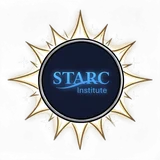
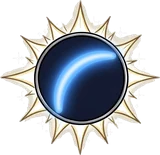
山海棋观：河图不减展翅、猛志冷却 7、深蓝星盘 4 次免冷却、神器改名换图标、头顶星弧标、天弧之光蓝光传送

diff --git a/games/shanhaiqiguan/data/skills.js b/games/shanhaiqiguan/data/skills.js
@@ -47,7 +47,7 @@
     xingtian: [
       S('duanshou', '断首再战', 'buff', 5, `被动：血越少攻击越高，最多 +${pct([0.5, 0.8, 1.2])}。主动：3 回合内，交战的对手因无首的恐惧，攻击和防御各降 ${pct([0.2, 0.3, 0.4])}`, { pv: { lowHp: [0.5, 0.8, 1.2] }, go: (g, k) => g.buff('fear', [0.2, 0.3, 0.4][k], 3) }, 'a headless torso with a roaring face on the chest'),
       S('ganqi', '干戚舞', 'buff', 5, `被动：反弹伤害，血越少反弹越多，最多 ${pct([0.35, 0.55, 0.75])}。主动：3 回合内攻击和闪避各 +${pct([0.05, 0.1, 0.15])}`, { pv: { thornLow: [0.35, 0.55, 0.75] }, go: (g, k) => { g.buff('atkPct', [0.05, 0.1, 0.15][k], 3); g.buff('dodge', [0.05, 0.1, 0.15][k], 3); } }, 'a crossed battle axe and round shield'),
-      S('mengzhi', '猛志', 'buff', 6, `被动：血越少暴击越高，最多 +${pct([0.15, 0.3, 0.45])}。主动：3 回合内吸收全部伤害，结束时一次受到吸收总量的 ${pct([1, 0.75, 0.5])}`, { pv: { critLow: [0.15, 0.3, 0.45] }, go: (g, k) => g.buff('absorb', [1, 0.75, 0.5][k], 3) }, 'a charging warrior silhouette with dust'),
+      S('mengzhi', '猛志', 'buff', 7, `被动：血越少暴击越高，最多 +${pct([0.15, 0.3, 0.45])}。主动：3 回合内吸收全部伤害，结束时一次受到吸收总量的 ${pct([1, 0.75, 0.5])}`, { pv: { critLow: [0.15, 0.3, 0.45] }, go: (g, k) => g.buff('absorb', [1, 0.75, 0.5][k], 3) }, 'a charging warrior silhouette with dust'),
       S('xingyao', '形夭', 'buff', 12, '血量高于 20% 才能用：血量降到 20%，多出的血存起来。12 回合内，每回合结束时血量低于 20% 就从存量补到 20%，到期存量清零', { ult: true, can: (p) => p.hp > p.maxhp * 0.2, go: (g) => g.pool(12) }, 'a headless giant rising with blazing spirit'),
     ],
     kuafu: [
@@ -83,7 +83,7 @@
     jingwei: [
       S('xianshi', '衔石', 'passive', 0, `战斗中每下 ${pct([0.1, 0.15, 0.2])} 对敌人造成其最大血 9% 的伤害`, { pr: [0.1, 0.15, 0.2] }, 'a small bird carrying a pebble'),
       S('tianhai', '填海', 'summon', 5, `在身后连放 3 块石头，${L([9, 7, 5])} 轮后自然消失。敌方英雄停在石头上（路过不算），石头碎掉，他掉 ${pct([0.03, 0.06, 0.09])} 最大血、交 ${pct([0.03, 0.06, 0.09])} 金币给你。石头自然消失时看脚下：无主领地归你；你的地建筑升一级；敌人的地建筑掉 25% 血；其他格子什么都不发生`, { go: (g, k) => g.behind('stones', 3, [9, 7, 5][k] - (g.lv(3) ? 1 : 0), [0.03, 0.06, 0.09][k]) }, 'a pile of round pebbles in waves'),
-      S('zhanchi', '展翅', 'buff', 7, '2 回合内飞在空中，停下时什么都不触发：不战斗、不交过路费，也不买地、不遇异兽', { go: (g) => g.buff('soar', 1, 2) }, 'small bird wings in flight over sea'),
+      S('zhanchi', '展翅', 'buff', 7, '2 回合内飞在空中，停下时什么都不触发：不战斗、不交过路费，也不买地、不遇异兽。河图减不了它的冷却', { noFast: true, go: (g) => g.buff('soar', 1, 2) }, 'small bird wings in flight over sea'),
       S('buqu', '志不可夺', 'passive', 0, '强化其他三个技能：衔石伤害变为最大血 17%；填海的石头少等 1 轮；展翅时自家和中立的格子照常结算', { ult: true }, 'a tiny bird defiantly facing a huge ocean wave'),
     ],
     zhulong: [
@@ -115,7 +115,7 @@
     T(3, 'yuchan', '玉蝉', '技能触发 +10%，经验 +50%', { proc: 0.1, xpMul: 0.5 }, 'a jade cicada carving'),
     T(4, 'xuanyuanjian', '轩辕剑', '攻击 +15，暴击 +10%', { atk: 15, crit: 0.1 }, 'a legendary golden sword with sun and moon on the blade'),
     T(4, 'xirang', '息壤', '自家过路费 +50%，建筑每回合多回血', { tollUp: 0.5, repair: 0.1 }, 'a glowing lump of self-growing magic soil'),
-    T(4, 'hetu', '河图', '技能触发 +15%，冷却每回合多减 1（大招除外）', { proc: 0.15, cdFast: 1 }, 'an ancient diagram scroll of dots carried on a dragon horse'),
+    T(4, 'hetu', '河图', '技能触发 +15%，冷却每回合多减 1（大招和精卫的展翅除外）', { proc: 0.15, cdFast: 1 }, 'an ancient diagram scroll of dots carried on a dragon horse'),
     T(4, 'luoshu', '洛书', '建造升级便宜 40%', { buildCut: 0.4 }, 'a turtle shell with a magic square of dots'),
     T(4, 'dengzhang', '夸父杖', '步数 +3，每回合回 6 血', { steps: 3, regen: 6 }, 'a giant wooden staff with leaves sprouting'),
     T(4, 'shenshu', '神荼索', '吸血 25%', { lifesteal: 0.25 }, 'a glowing reed rope binding a ghost'),
@@ -141,9 +141,9 @@
   const AR = (id, name, desc, n, ic) => ({ id, name, desc, n, ic, tier: 5 });
   SJ.ARTIFACTS = [
     AR('xinghuzhui', '星弧吊坠', '12 回合内，路过的自家建筑自动升一级（最高 3 级），然后消失', 12, 'a round silver medallion pendant with the STARC Institute logo on a navy enamel face, on a fine chain'),
-    AR('busishu', '星弧甘露', '阵亡时以满血和 1000 金复活，用后消失', null, 'a glowing crystal water droplet with the STARC Institute logo on a navy center'),
-    AR('xinghuguang', '星弧之光', '8 回合内：掷骰后直接传送到 3 倍步数远的地方，路上什么都不触发、不受地形和路障影响；每回合多走一次；闪避 +80%', 8, 'a radiant starburst of light around the STARC Institute logo on a navy center'),
-    AR('xinghupan', '星弧星盘', '5 回合内所有技能（包括大招）没有冷却，每回合都能放，然后消失', 5, 'a bronze astrolabe plate engraved with constellations around the STARC Institute logo on a navy center'),
+    AR('busishu', '星星甘露', '阵亡时以满血和 1000 金复活，用后消失', null, 'a glowing crystal water droplet with a glowing blue star on a navy center'),
+    AR('xinghuguang', '天弧之光', '8 回合内：掷骰后直接传送到 3 倍步数远的地方，路上什么都不触发、不受地形和路障影响；每回合多走一次；闪避 +80%', 8, 'a radiant starburst of light around a glowing blue arc on a navy center'),
+    AR('xinghupan', '深蓝星盘', '接下来 4 次放技能不受冷却限制（包括大招），用完消失；技能本来就好了的不算次数', null, 'a bronze astrolabe plate engraved with constellations around the STARC Institute logo on a navy center'),
   ];
   // 给玩家看的技能说明：有点故事味。上面的 desc 是精确规则，留给设计文档和批注表
   SJ.SAY = {

diff --git a/games/shanhaiqiguan/view/app.js b/games/shanhaiqiguan/view/app.js
@@ -248,7 +248,7 @@
     st.insertAdjacentHTML('beforeend', B.tilesSvg());
     SJ.BOARD.forEach((_, i) => renderTile(i));
     S.players.forEach((p) => {
-      const e = h(`<div class="piece" style="--pc:${PCOLOR[p.id]}"><div class="aura"><b class="wl"></b><b class="wr"></b><i></i><i></i><i></i><i></i><i></i></div><div class="px" style="background-image:url(assets/px_${p.hero}.png)"></div></div>`);
+      const e = h(`<div class="piece" style="--pc:${PCOLOR[p.id]}"><div class="aura"><b class="wl"></b><b class="wr"></b><i></i><i></i><i></i><i></i><i></i></div><div class="px" style="background-image:url(assets/px_${p.hero}.png)"></div>${ARTMARK}</div>`);
       pieces[p.id] = e; st.append(e);
     });
     placePieces();
@@ -305,7 +305,10 @@
   // 精卫展翅的造型：放技能时状态还没加上，所以掷骰、走路时也要再刷一次
   // 加持期间人物换造型：翼覆千里金龙之气，兵主降世血焰，形夭战魂，与日逐走背日
   const has = (p, k) => p.buffs.some((b) => b.k === k);
+  // 拿着神器时头顶的星弧小标：一颗星、一道弧
+  const ARTMARK = '<div class="artmark"><svg viewBox="0 0 44 32"><defs><linearGradient id="amArc" x1="0" x2="1"><stop offset="0" stop-color="#3d8bff" stop-opacity="0"/><stop offset=".55" stop-color="#7cc4ff"/><stop offset="1" stop-color="#e6f4ff"/></linearGradient></defs><path d="M3 27 Q 20 15 41 19" fill="none" stroke="url(#amArc)" stroke-width="4.2" stroke-linecap="round"/><path d="M22 2 L24.6 8.6 L31.5 9.1 L26.2 13.6 L27.9 20.4 L22 16.7 L16.1 20.4 L17.8 13.6 L12.5 9.1 L19.4 8.6 Z" fill="#8cc8ff" stroke="#e6f4ff" stroke-width="1" stroke-linejoin="round"/></svg></div>';
   const FORMS = {
+    hasart: (p) => !!p.art,
     soar: (p) => has(p, 'soar'),
     yifu: (p) => has(p, 'fly'),
     berserk: (p) => has(p, 'avatar'),
@@ -415,7 +418,7 @@
         ${Object.keys(p.status).length ? `<p>状态：${Object.entries(p.status).map(([k, n]) => `${SJ.STATUS[k]?.[0] || k} ${n}`).join('、')}</p>` : ''}</div></div>
       <h4>技能</h4><div class="sks">${list.map(skill).join('')}</div>
       <h4>消耗品 <small>最多 4 个，满了挤掉最早的（应战帖不算）${act ? '，点一下马上用掉' : ''}</small></h4><div class="slots">${[...Array(Math.max(4, (p.cons || []).length)).keys()].map((i) => { const id = (p.cons || [])[i], c = id && SJ.consOf(id); return c ? `<button class="slot t1" ${act ? `data-a='{"a":"use","i":${i}}'` : ''}>${img('it_' + id)}<b>${c.name}</b><small>${c.desc}</small></button>` : '<div class="slot empty">空</div>'; }).join('')}</div>
-      ${p.art ? (() => { const a = SJ.artOf(p.art.id); return `<h4>神器</h4><div class="slots"><div class="slot t5">${img('it_' + a.id)}<b>${a.name}</b><small>${a.desc}${p.art.n != null ? `（还剩 ${p.art.n} 轮）` : ''}</small></div></div>`; })() : ''}
+      ${p.art ? (() => { const a = SJ.artOf(p.art.id); return `<h4>神器</h4><div class="slots"><div class="slot t5">${img('it_' + a.id)}<b>${a.name}</b><small>${a.desc}${p.art.n != null ? `（还剩 ${p.art.n} 轮）` : p.art.uses ? `（还剩 ${p.art.uses} 次）` : ''}</small></div></div>`; })() : ''}
       <h4>宝物 <small>最多装备 4 件${act ? '，点一下卸下' : ''}</small></h4><div class="slots">${p.items.map((id, i) => item(id, `{"a":"unequip","i":${i}}`)).join('')}</div>
       ${p.bag.length ? `<h4>包袱 <small>${act ? '点一下装备' : ''}</small></h4><div class="slots">${p.bag.map((id, i) => item(id, p.items.includes(null) ? `{"a":"equip","i":${i}}` : `{"a":"sell","i":${i}}`)).join('')}</div>${act && !p.items.includes(null) ? '<p class="note">宝物栏满了：先卸下一件，或者点包袱里的宝物卖掉。</p>' : ''}` : ''}
       <div class="btn-row"><button class="btn primary" id="hp-close">${act ? '返回' : '关闭'}</button></div></div></div>`);
@@ -561,7 +564,13 @@
         if (D) { const { x, y } = iso(end); trail(x, y + 6, 'land'); if (D.fly) sfx.land(); }
         p.pos = end; placePieces(); break;
       }
-      case 'jump': { sfx.portal(); const pc = pieces[e.pid]; pc.style.setProperty('--step', '0ms'); placePieces(); const q = iso(e.pos); B.look(q.x, q.y - 40, 300); await wait(620); break; }
+      case 'jump': if (e.light && pieces[e.pid]) { // 天弧之光：化成蓝光，一道光飞过去，再从光里现身
+        const pc = pieces[e.pid], x0 = parseFloat(pc.style.left), y0 = parseFloat(pc.style.top), q = iso(e.pos), ms = 560 / speed;
+        sfx.portal(); fxAt(x0, y0, 'arc-beam', 1000); pc.classList.add('arc-out'); await wait(380);
+        const orb = fxAt(x0, y0 - 40, 'arc-orb', ms + 400, 9e5); pc.style.setProperty('--step', '0ms'); placePieces();
+        B.look(q.x, q.y - 40, ms); await wait(30); if (orb) { orb.style.transition = `left ${ms}ms ease-in-out, top ${ms}ms ease-in-out`; orb.style.left = `${q.x}px`; orb.style.top = `${q.y - 34}px`; }
+        await wait(560); orb?.remove(); fxAt(q.x, q.y + 6, 'arc-beam', 1000); pc.classList.add('arc-in'); pc.classList.remove('arc-out'); await wait(620); pc.classList.remove('arc-in'); break;
+      } else { sfx.portal(); const pc = pieces[e.pid]; pc.style.setProperty('--step', '0ms'); placePieces(); const q = iso(e.pos); B.look(q.x, q.y - 40, 300); await wait(620); break; }
       case 'msg': logLine(e.text); toast(e.text, e.kind); if (/拦下/.test(e.text)) sfx.block(); renderPlayers(); placePieces(); if (e.kind === 'skill') sfx.skill(); await wait(800); break;
       case 'tile': if (e.look) await lookTile(e.tile, e.look); renderTile(e.tile, e.built || e.buy); renderPlayers(); if (e.built || e.buy) sfx.build(); if (e.fire) sfx.fire(); if (e.built) logLine(`${S.players[e.pid].name} 建造了 ${SJ.BUILDINGS[S.tiles[e.tile].b].name}`); await wait(e.fire ? 450 : 240); break;
       case 'toll': { renderPlayers(); const q = S.players[e.to], p = S.players[e.pid]; logLine(`${p.name} 付给 ${q.name} ${e.n} 金`); floaty(e.pid, `-${e.n}`, '#ffd76a'); sfx.pay(); await wait(560); break; }

diff --git a/games/shanhaiqiguan/core/game.js b/games/shanhaiqiguan/core/game.js
@@ -210,7 +210,7 @@
     if (i === 3) return p.sk[3] === 0 && p.level >= 6;
     return p.sk[i] < 3 && p.level >= p.sk[i] * 2 + 1;
   };
-  SJ.canCast = (p, i, s) => { const k = SJ.SKILLS[p.hero][i]; return !!k.go && p.sk[i] > 0 && p.cd[i] <= 0 && (!k.can || k.can(p, s || SJ._s)); };
+  SJ.canCast = (p, i, s) => { const k = SJ.SKILLS[p.hero][i]; return !!k.go && p.sk[i] > 0 && (p.cd[i] <= 0 || (p.art && p.art.id === 'xinghupan' && p.art.uses > 0)) && (!k.can || k.can(p, s || SJ._s)); };
   // 土府：站在自家建筑上，而且这座还不是土府
   SJ.canTufu = (s, p) => { const t = s.tiles[p.pos]; return t.owner === p.id && !!t.b && SJ.BUILDINGS[t.b].branch !== 'tufu'; };
 
@@ -239,6 +239,9 @@
   async function cast(s, io, p, i) {
     if (!SJ.canCast(p, i, s)) return;
     const k = SJ.SKILLS[p.hero][i], lv = p.sk[i] - 1;
+    if (p.cd[i] > 0) { // 深蓝星盘：冷却中的技能照放，用掉一次
+      if (--p.art.uses <= 0) { const a = SJ.artOf(p.art.id); p.art = null; await io.ev({ t: 'msg', text: `${a.name}的光芒散去了` }); } else await io.ev({ t: 'msg', kind: 'skill', text: `${SJ.artOf('xinghupan').name}还能再免 ${p.art.uses} 次冷却` });
+    }
     p.cd[i] = Array.isArray(k.cd) ? k.cd[lv] : k.cd;
     await io.ev({ t: 'cast', pid: p.id, sk: k.id, name: k.name });
     const g = {
@@ -393,9 +396,9 @@
 
   async function eliminate(s, io, p, killer, why) {
     if (!p.alive) return;
-    if (p.art && p.art.id === 'busishu') { // 星弧甘露：满血加 1000 金复活
+    if (p.art && p.art.id === 'busishu') { // 星星甘露：满血加 1000 金复活
       p.art = null; p.hp = p.maxhp; gain(s, p, 1000);
-      await io.ev({ t: 'msg', kind: 'skill', text: `${p.name} 饮下星弧甘露，满血复活，还得到 1000 金` });
+      await io.ev({ t: 'msg', kind: 'skill', text: `${p.name} 饮下星星甘露，满血复活，还得到 1000 金` });
       return;
     }
     if (hasBuff(p, 'revive')) {
@@ -788,7 +791,7 @@
   async function giveArtifact(s, io, p) {
     const a = SJ.ARTIFACTS[ri(s, SJ.ARTIFACTS.length)];
     p.art = { id: a.id, n: a.n }; p.hadArt = true;
-    if (a.id === 'xinghupan') p.cd = p.cd.map(() => 0); // 拿到当回合就清
+    if (a.id === 'xinghupan') p.art.uses = 4; // 深蓝星盘：4 次免冷却
     await io.ev({ t: 'artifact', pid: p.id, id: a.id });
   }
   const artChance = (s, p) => SJ.bigMap() && !p.hadArt && s.round >= (SJ.MAP.tierAt || [30, 60])[1];
@@ -1287,14 +1290,14 @@
     return d1 === d2;
   }
 
-  // 星弧之光：顺着路数出 n 格，直接传过去，路上什么都不触发，地形不算步数
+  // 天弧之光：顺着路数出 n 格，直接传过去，路上什么都不触发，地形不算步数
   async function lightJump(s, io, p, n, back) {
     if (back) turnAround(s, p);
     let pos = p.pos, from = p.from;
     for (let k = 0; k < n; k++) { let o = SJ.BOARD[pos].adj.filter((x) => x !== from); if (!o.length) o = [from]; const nx = o[ri(s, o.length)]; from = pos; pos = nx; }
     p.pos = pos; p.from = from;
     await io.ev({ t: 'jump', pid: p.id, pos, light: true });
-    await io.ev({ t: 'msg', kind: 'skill', text: `${p.name} 化作星弧之光，一闪到了 ${n} 格外` });
+    await io.ev({ t: 'msg', kind: 'skill', text: `${p.name} 化作天弧之光，一闪到了 ${n} 格外` });
   }
 
   SJ.takeTurn = async function (s, io) {
@@ -1306,7 +1309,7 @@
     s.stats.turns++;
     if (p.alive) {
       await io.ev({ t: 'turn', pid: p.id });
-      p.cd = hasArt(p, 'xinghupan') ? p.cd.map(() => 0) : p.cd.map((c, j) => Math.max(0, c - 1 - (SJ.SKILLS[p.hero][j].ult ? 0 : treasure(p, 'cdFast')))); // 星弧星盘：每回合冷却全清；河图对大招无效
+      p.cd = p.cd.map((c, j) => { const k = SJ.SKILLS[p.hero][j]; return Math.max(0, c - 1 - (k.ult || k.noFast ? 0 : treasure(p, 'cdFast'))); }); // 河图对大招和展翅无效
       { const rg = stat(p, 'regen'); if (rg) { const v = heal(p, rg); if (v) await io.ev({ t: 'heal', pid: p.id, n: v }); } }
       // 收入
       let inc = 0, taken = 0, taken2 = null;
@@ -1361,7 +1364,7 @@
           await io.ev({ t: 'msg', text: `${p.name} 这回合动不了` });
         } else {
           let again = true, doubles = 0;
-          s.extra = hasArt(p, 'xinghuguang') ? 1 : 0; // 星弧之光：每回合多走一次
+          s.extra = hasArt(p, 'xinghuguang') ? 1 : 0; // 天弧之光：每回合多走一次
           while (again && p.alive && !s.over) {
             const dbl = await rollAndGo(s, io, p);
             if (!p.alive || s.over) break;

diff --git a/games/shanhaiqiguan/style.css b/games/shanhaiqiguan/style.css
@@ -482,3 +482,20 @@ canvas.fx { position: absolute; inset: 0; width: 100%; height: 100%; pointer-eve
 .beast.phantom.absorb { transition: left var(--step) cubic-bezier(.5, 0, .9, .6), top var(--step) cubic-bezier(.5, 0, .9, .6), scale var(--step) ease-in, opacity var(--step) ease-in; scale: .35; opacity: .9; filter: hue-rotate(160deg) saturate(2) brightness(1.6) drop-shadow(0 0 14px #bfefff); }
 .piece.drink .px { filter: drop-shadow(0 0 10px #bfefff) brightness(1.35); }
 @keyframes phantom-bob { from { translate: 0 0; } to { translate: 0 -8px; } }
+/* 神器：头顶的星弧小标 */
+.piece .artmark { position: absolute; left: 50%; top: -6px; width: 40px; height: 29px; margin-left: -20px; z-index: 3; display: none; filter: drop-shadow(0 0 2px #3d8bff) drop-shadow(0 0 6px #3d8bffaa); animation: artbob 1.6s ease-in-out infinite alternate; }
+.piece .artmark svg { display: block; width: 100%; height: 100%; }
+.piece.hasart .artmark { display: block; }
+.piece.yifu .artmark, .piece.dash-zhenyi .artmark { translate: 0 -34px; }
+.piece.soar .artmark { translate: 0 -64px; }
+@keyframes artbob { from { transform: translateY(0); } to { transform: translateY(-4px); } }
+/* 天弧之光：原地化成蓝光柱，一团光飞过去，再从光柱里现身 */
+.piece.arc-out { transition: opacity .34s ease-in, filter .34s ease-in; opacity: 0; filter: brightness(2.6) drop-shadow(0 0 10px #5aa8ff); }
+.piece.arc-in { transition: opacity .45s ease-out, filter .7s ease-out; }
+.arc-beam { position: absolute; width: 0; height: 0; pointer-events: none; }
+.arc-beam::before { content: ""; position: absolute; left: -24px; bottom: 0; width: 48px; height: 190px; border-radius: 24px 24px 50% 50%; background: linear-gradient(to top, #f2f9ff, #8fd0ffee 22%, #3d8bffaa 60%, #3d8bff00); transform-origin: 50% 100%; animation: arc-beam 1s ease-out forwards; box-shadow: 0 0 30px 6px #3d8bff66; }
+.arc-beam::after { content: ""; position: absolute; left: -50px; top: -17px; width: 100px; height: 34px; border-radius: 50%; border: 3px solid #9fd4ff; box-shadow: 0 0 14px 4px #3d8bffaa, inset 0 0 12px #7cc4ff; animation: arc-ring 1s ease-out forwards; }
+@keyframes arc-beam { 0% { transform: scale(.3, 0); opacity: 0; } 25% { transform: scale(1, 1); opacity: 1; } 60% { transform: scale(.7, 1.05); opacity: .9; } 100% { transform: scale(.1, 1.1); opacity: 0; } }
+@keyframes arc-ring { 0% { transform: scale(.2); opacity: 0; } 25% { opacity: 1; } 100% { transform: scale(1.5); opacity: 0; } }
+.arc-orb { position: absolute; width: 30px; height: 30px; margin: -15px 0 0 -15px; border-radius: 50%; pointer-events: none; background: radial-gradient(circle, #fff 0 18%, #9fd4ff 40%, #3d8bff88 65%, #3d8bff00 72%); box-shadow: 0 0 26px 10px #3d8bff99, 0 0 60px 20px #3d8bff44; animation: arc-orb .2s ease-in-out infinite alternate; }
+@keyframes arc-orb { to { transform: scale(1.18); } }

diff --git a/games/shanhaiqiguan/index.html b/games/shanhaiqiguan/index.html
@@ -12,22 +12,22 @@
 <meta property="og:url" content="https://starc.institute/games/shanhaiqiguan/">
 <meta property="og:image" content="https://starc.institute/games/shanhaiqiguan/assets/og.jpg">
 <meta name="twitter:card" content="summary_large_image">
-<link rel="stylesheet" href="style.css?v=202611140041">
+<link rel="stylesheet" href="style.css?v=202611140202">
 </head>
 <body>
 <div id="app"></div>
-<script src="data/buildings.js?v=202611140041"></script>
-<script src="data/world.js?v=202611140041"></script>
-<script src="data/skills.js?v=202611140041"></script>
-<script src="data/lore.js?v=202611140041"></script>
-<script src="data/terrain.js?v=202611140041"></script>
-<script src="data/maps.js?v=202611140041"></script>
-<script src="core/battle.js?v=202611140041"></script>
-<script src="core/game.js?v=202611140041"></script>
-<script src="core/ai.js?v=202611140041"></script>
-<script src="view/icons.js?v=202611140041"></script>
-<script src="view/sfx.js?v=202611140041"></script>
-<script src="view/board.js?v=202611140041"></script>
-<script src="view/app.js?v=202611140041"></script>
+<script src="data/buildings.js?v=202611140202"></script>
+<script src="data/world.js?v=202611140202"></script>
+<script src="data/skills.js?v=202611140202"></script>
+<script src="data/lore.js?v=202611140202"></script>
+<script src="data/terrain.js?v=202611140202"></script>
+<script src="data/maps.js?v=202611140202"></script>
+<script src="core/battle.js?v=202611140202"></script>
+<script src="core/game.js?v=202611140202"></script>
+<script src="core/ai.js?v=202611140202"></script>
+<script src="view/icons.js?v=202611140202"></script>
+<script src="view/sfx.js?v=202611140202"></script>
+<script src="view/board.js?v=202611140202"></script>
+<script src="view/app.js?v=202611140202"></script>
 </body>
 </html>
